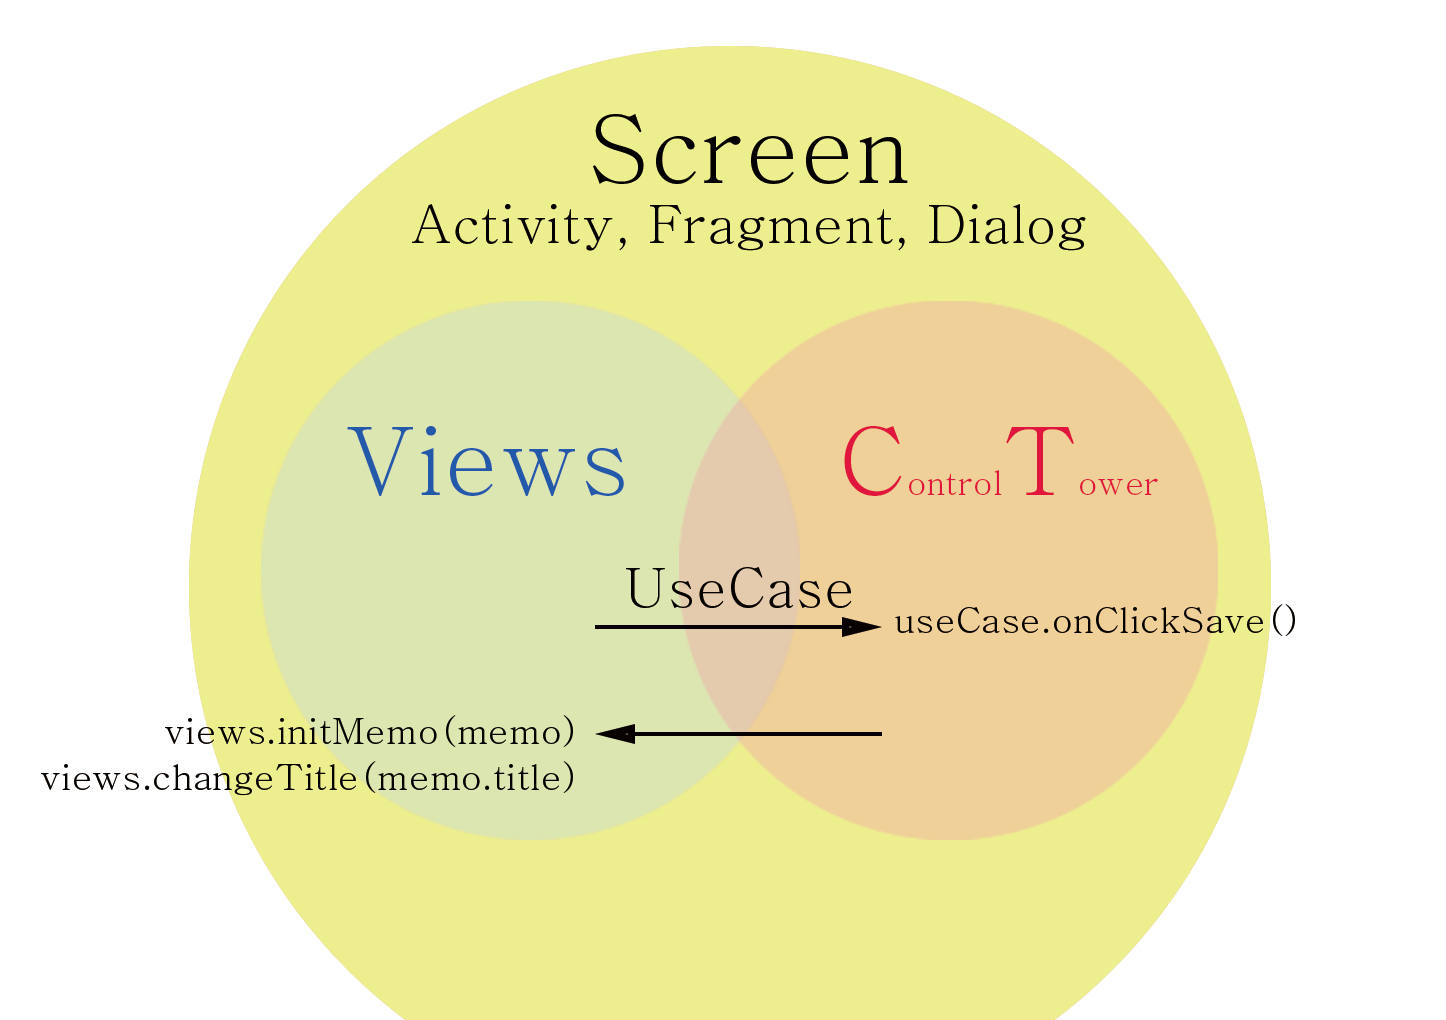
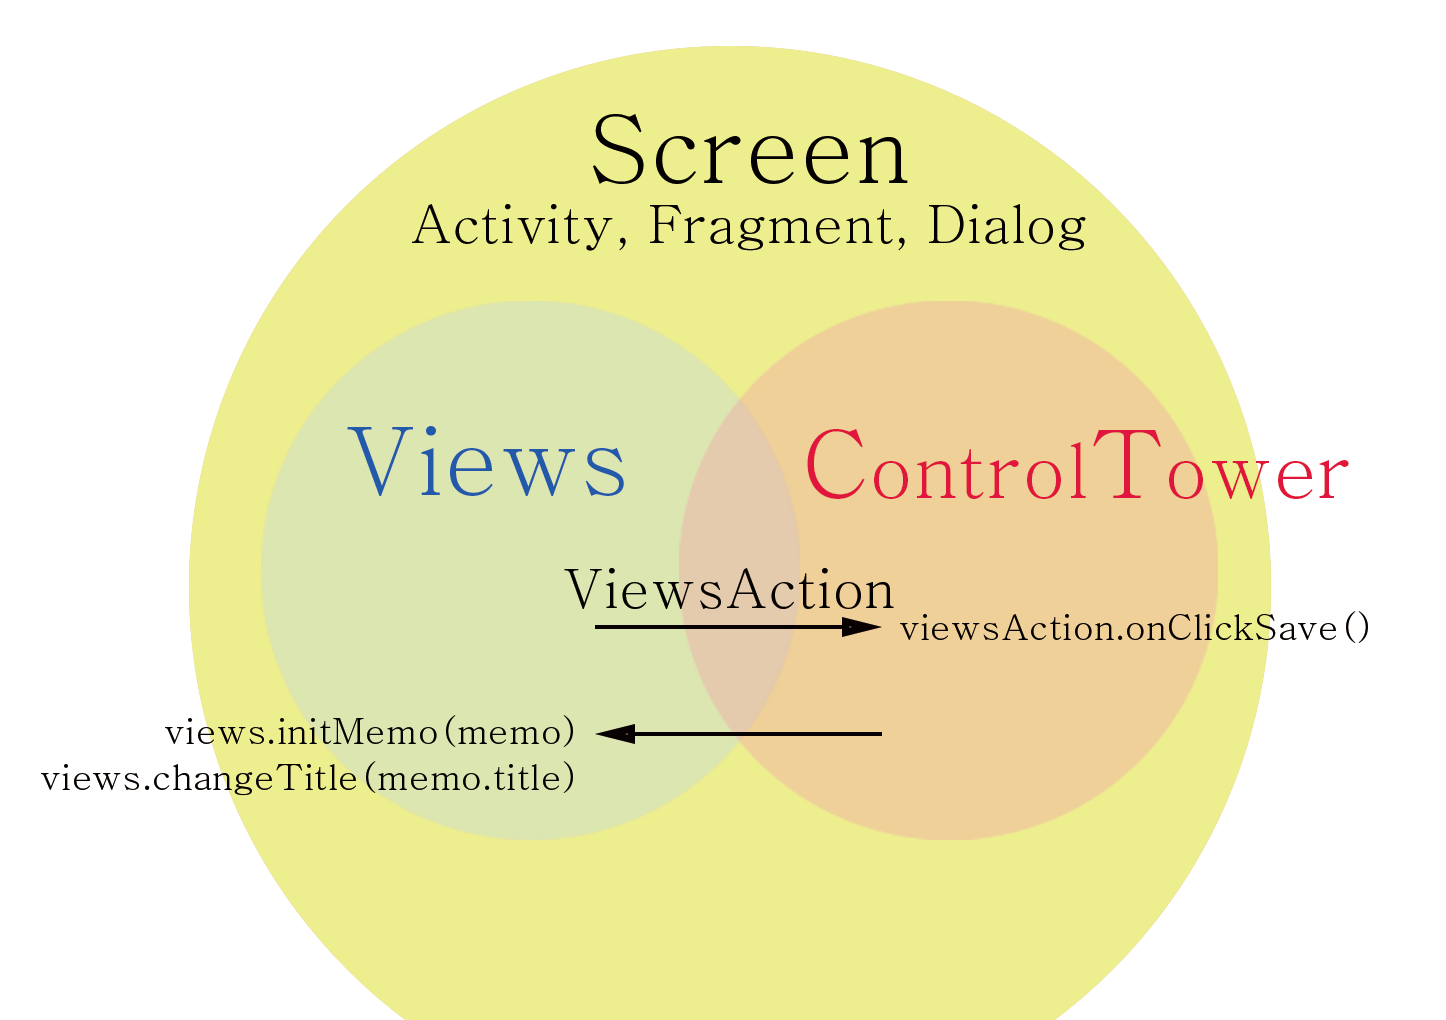
update readme

Changed region(s): [[0.5602, 0.3951, 0.9336, 0.4863], [0.4046, 0.5471, 0.6224, 0.6078], [0.6224, 0.5775, 0.9336, 0.6382]]

diff --git a/README.md b/README.md
@@ -38,16 +38,20 @@ https://github.com/BansookNam/android-architecture
 
 
 
-## Examples
-For activity and fragment for the screen, should inherit the `ScvBaseXXXX` class.
-And declare `RequestControlTower` annotation above the class. This annotation will request and create ControlTower class automatically.
+## Examples of Screen
+1. For activity and fragment for the screen, should inherit the `SVC_{name of screen class}` class.
+2. Add screen annotations `SvcActivity`, `SvcFragment`, `SvcDialogFragment`.
+3. And declare `RequireControlTower`, `RequireViews` annotation above the class.
+
 
 ### 1. Activity
 
 ```kotlin
+@SvcActivity
+@RequireViews(MainViews::class)
 @RequireControlTower(MainControlTower::class) // magic things do happening
-class MainActivity : SvcBaseActivity<MainViews>() {
-    override fun createViews() = MainViews(this) // provide Views
+class MainActivity : SVC_MainActivity() {
+  //extend SVC_{name of class}
 }
 
 ```
@@ -55,11 +59,58 @@ class MainActivity : SvcBaseActivity<MainViews>() {
 ### 2. Fragment
 
 ```kotlin
+@SvcFragment
+@RequireViews(StatisticViews::class)
 @RequireControlTower(StatisticControlTower::class) // magic things do happening
-class StatisticFragment : SvcBaseFragment<StatisticViews>() {
-    override fun createViews() = StatisticViews(this) // provide Views
+class StatisticFragment : SVC_StatisticFragment() {
+   //extend SVC_{name of class}
 }
 ```
+
+### 3. DialogFragment
+
+```kotlin
+@SvcDialogFragment
+@RequireViews(SampleActionViews::class)
+@RequireControlTower(SampleActionControlTower::class)
+@RequireListener(SampleActionDialogListener::class) //listener from another screen.
+class SampleActionDialog : SVC_SampleActionDialog(){
+    //extend SVC_{name of class}
+}
+```
+
+## Examples of ControlTower
+1. For controlTower, should inherit the `SVC_{name of screen class}` class.
+2. Declare annotations `ControlTower`.
+3. Declare `RequireScreen`, `RequireViews` annotation above the class.
+
+### 1. ControlTower
+
+```kotlin
+@ControlTower
+@RequireViews(StatisticViews::class)
+@RequireScreen(StatisticFragment::class) //screen which this controlTower will be used.
+class StatisticControlTower : SVC_StatisticControlTower(), StatisticViewsAction {
+    //extend SVC_{name of class}
+    //implement ViewsAction which 'Views' is needed.
+}
+
+```
+
+### 2. ControlTower (Abstract screen use)
+
+```kotlin
+@ControlTower
+@RequireViews(CommonViews::class)
+@RequireScreen(CommonScreen::class) //abstract screen is available to declare. (CommonScreen is interface)
+class CommonControlTower : SVC_CommonControlTower(), CommonViewsAction {
+    //extend SVC_{name of class}
+    //implement ViewsAction which 'Views' is needed.
+}
+
+```
+
+
 
 
 
@@ -68,10 +119,10 @@ You can really **divide** "Views" from Activity and Fragment.
 so you can see logic about real Fragment and Activity very well like below. ([source link](https://github.com/BansookNam/android-architecture/blob/todo-svc-kotlin/todoapp/app/src/main/java/com/example/android/architecture/blueprints/todoapp/screen/taskdetail/TaskDetailActivity.kt))
 
 ```kotlin
+@SvcActivity
+@RequireViews(TaskDetailViews::class)
 @RequireControlTower(TaskDetailCT::class)
-class TaskDetailActivity : SvcBaseActivity<TaskDetailViews>() {
-
-    override fun createViews() = TaskDetailViews(this)
+class TaskDetailActivity : SVC_TaskDetailActivity() {
 
     var taskId: String? = null
 
@@ -183,17 +234,28 @@ And both MVP, MVVM can call Business logics of Mediator directly.
 
 ## 3. SVC with Model
 
+### 3-1. SVC-M (similar with MVP)
+
 ![diagram](./doc/img/SVC_M.png)
 
 As same as MVP, Mediator("ControlTower") comunicated with Model.
 
 It's exactly same.
 
-![diagram](./doc/img/SVC_VM_M.png)
+
+### 3-2. SVC-VM-M type 1
+![diagram](./doc/img/SVC_VM_M_type1.png)
 
 We can use ViewModel in ControlTower to take advantage of "Auto Lifecycle Management".
+We use `ControlTower` as Mediator and `ViewModel` as data holder.
+In this type, `ControlTower` has `Repositories` and manage the datas
 
-Especially when we call asynchronous call which take more than 100ms, using ViewModel would be a good choice.
+### 3-3. SVC-VM-M type 2
+![diagram](./doc/img/SVC_VM_M_type2.png)
+
+Similar with type1, however in this architecture `ViewModel` has `Repositories` and manage the data.
+You can design in type2 in case of `ViewModel` can independently divided with `ControlTower`.
+
 
 ## 4. Difference between MVP,MVVM vs SVC
 
@@ -209,9 +271,9 @@ With this 2 big differences. We can
 1. Prevent "View" from being "God View"
 2. We can see well divided logics.
 3. When we write "View" logic we don't need to think about business logics.
-4. We don't need to make duplicated methods by interfaces (in MVP especially)
-5. We don't need to observe commands with parameter (in MVVM)
-6. We can use same "Views" in "A Activity" and "B Fragment". (reusable)
+4. We don't need to make duplicated methods by interfaces (compare to MVP)
+5. We don't need to observe commands with parameter (compare to MVVM)
+6. We can use same "Views" in "A Activity" and "B Fragment". (reusable. ex-`CommonViews` from sample)
 7. We can understand intuitively with clear naming.
 
 
@@ -239,7 +301,11 @@ allprojects {
 Include below in your "application" build.gradle file
 
 ```groovy
-implementation "com.naver.android.svc:svc:0.0.2-alpha10"
+apply plugin: 'kotlin-kapt'
+
+
+implementation "com.naver.android.svc:svc:1.0.0-beta10"
+kapt "com.naver.android.svc:svc-compiler:1.0.0-beta10"
 ```
 
 
